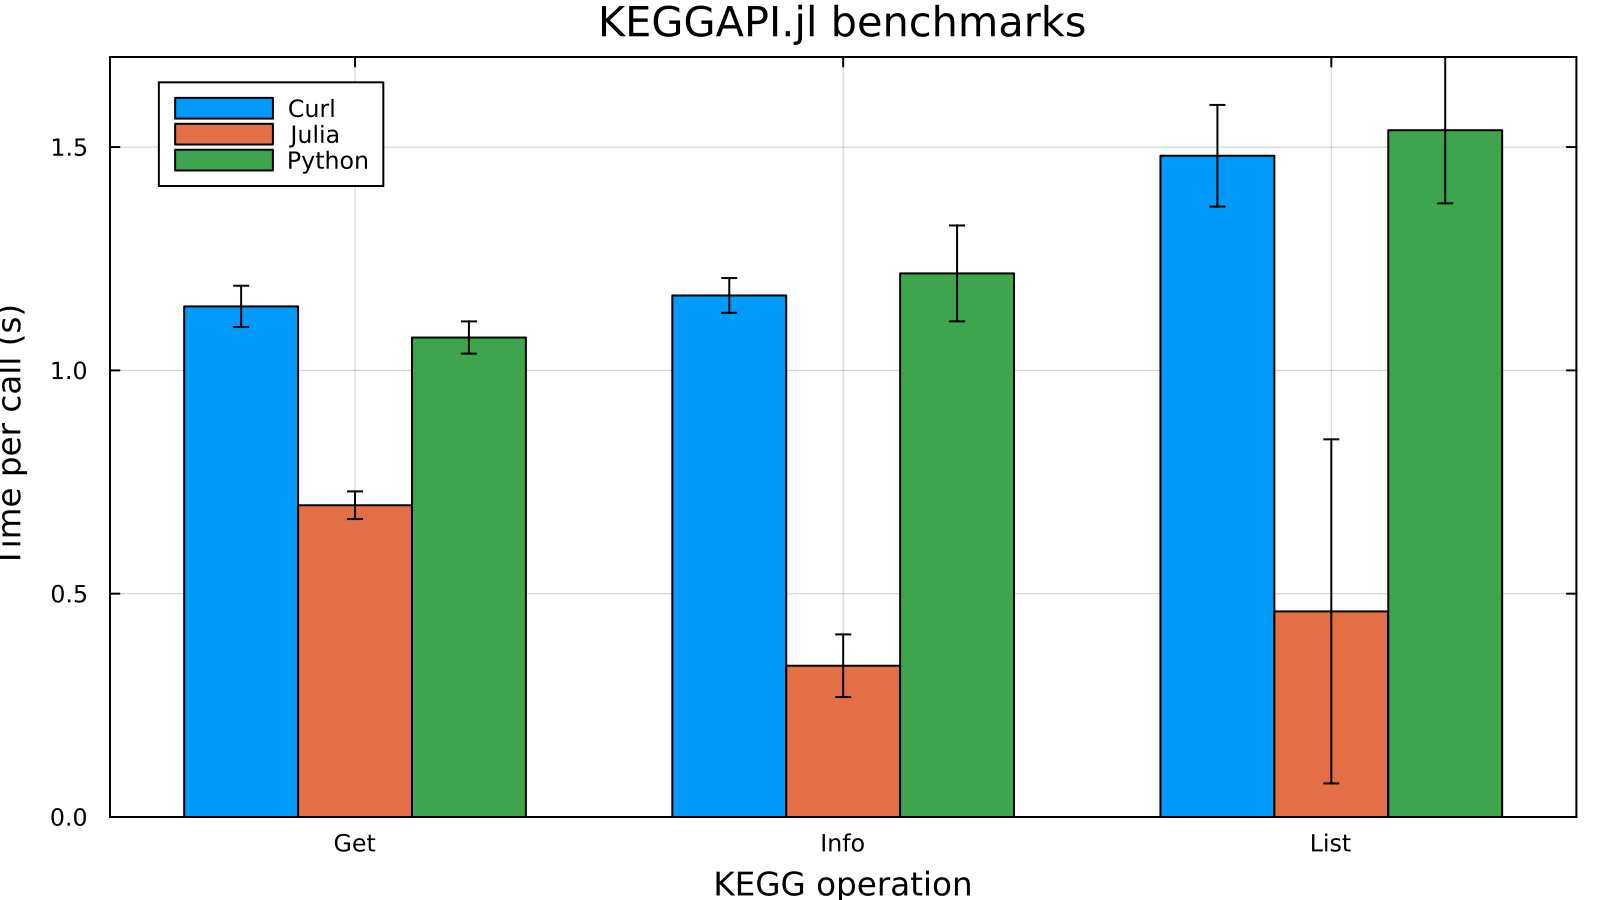
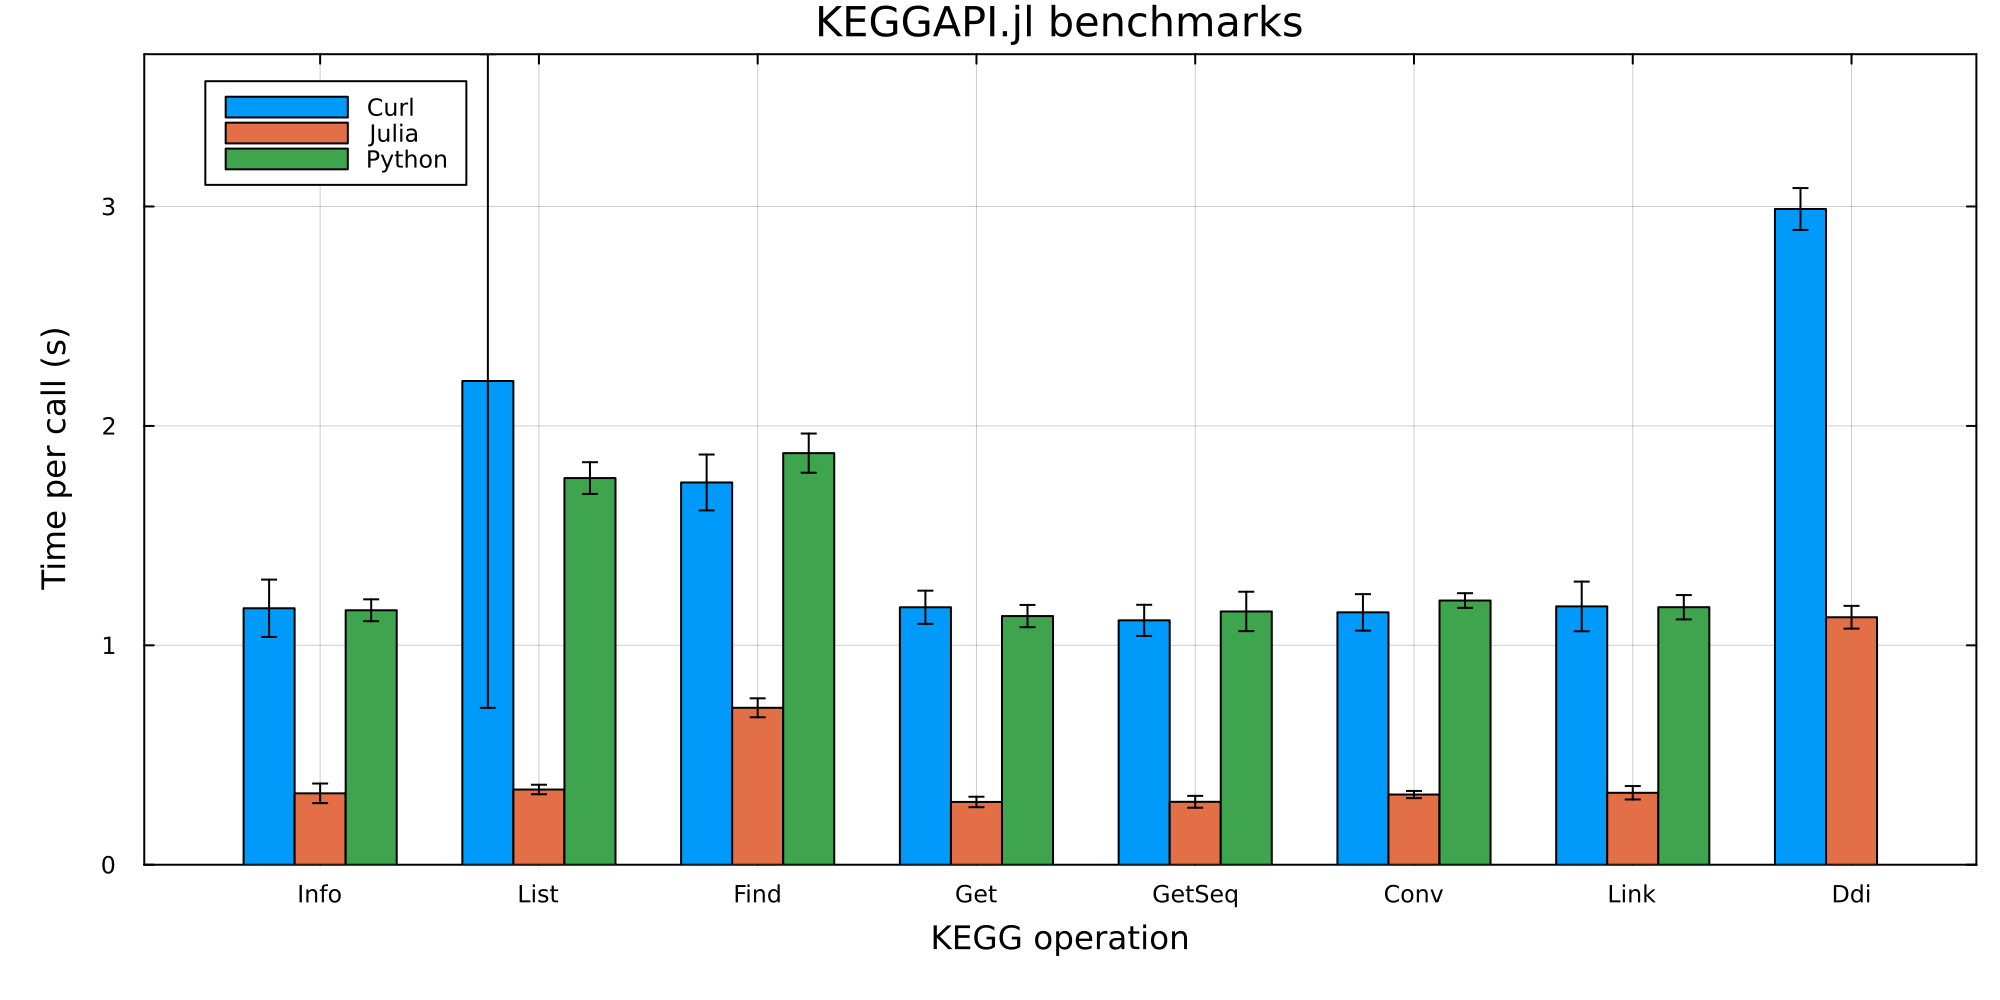
bench: cover all seven KEGG operations
Expand the benchmark from three cases to eight, so every wrapped KEGG
operation is measured: info, list, find, get, get/aaseq, conv, link and
ddi. Runners now share a common (label, thunk) case table, keeping the
four interfaces in sync.

Notes on coverage:
- ddi has no KEGGREST or Bio.KEGG.REST wrapper, so those interfaces
  report no sample and the plot simply omits their bar.
- The conv case uses ncbi-geneid rather than ncbi-proteinid because
  Bio.KEGG.REST only accepts the legacy outside-db names.

Also fix a measurement error: kegg_get sleeps internally to respect the
rate limit, which was being counted as work and inflated the Julia Get
timing by ~0.34 s. The Julia runner now passes timeout = 0.0 (the runner
already spaces its own calls) and silences the resulting warning.

Plot orders operations canonically instead of alphabetically and no
longer clips its axis labels.

diff --git a/benchmarking/runners/bench_python.py b/benchmarking/runners/bench_python.py
@@ -10,6 +10,18 @@ import Bio.KEGG.REST as BK
 NREPS = int(sys.argv[1]) if len(sys.argv) > 1 else 5
 PAUSE = float(sys.argv[2]) if len(sys.argv) > 2 else 0.4
 
+# (label, thunk) pairs -- keep in sync with the other runners. Bio.KEGG.REST has
+# no ddi wrapper, so that case is absent here and reported as unsupported.
+CASES = [
+    ("Info", lambda: BK.kegg_info("kegg")),
+    ("List", lambda: BK.kegg_list("pathway")),
+    ("Find", lambda: BK.kegg_find("compound", "glucose")),
+    ("Get", lambda: BK.kegg_get("hsa:10458")),
+    ("GetSeq", lambda: BK.kegg_get("hsa:10458", "aaseq")),
+    ("Conv", lambda: BK.kegg_conv("ncbi-geneid", "eco:b0002")),
+    ("Link", lambda: BK.kegg_link("pathway", "hsa:10458")),
+]
+
 
 def timeit(fn):
     t0 = time.perf_counter()
@@ -18,13 +30,11 @@ def timeit(fn):
 
 
 # Warm up (connection setup, imports) before the measured replicates.
-BK.kegg_info("kegg").read()
-time.sleep(PAUSE)
+for _, thunk in CASES:
+    thunk().read()
+    time.sleep(PAUSE)
 
 for _ in range(NREPS):
-    print("Info,Python,{}".format(timeit(lambda: BK.kegg_info("kegg"))))
-    time.sleep(PAUSE)
-    print("List,Python,{}".format(timeit(lambda: BK.kegg_list("pathway"))))
-    time.sleep(PAUSE)
-    print("Get,Python,{}".format(timeit(lambda: BK.kegg_get("hsa:10458"))))
-    time.sleep(PAUSE)
+    for label, thunk in CASES:
+        print("{},Python,{}".format(label, timeit(thunk)))
+        time.sleep(PAUSE)

diff --git a/benchmarking/README.md b/benchmarking/README.md
@@ -1,13 +1,27 @@
 # Benchmarking
 
 Compares `KEGGAPI.jl` against the other common KEGG REST clients — `KEGGREST`
-(R), `Bio.KEGG.REST` (Python) and raw `curl` — on three operations:
+(R), `Bio.KEGG.REST` (Python) and raw `curl` — across the KEGG operations:
 
-| Operation | Query          |
-|:----------|:---------------|
-| `Info`    | `info/kegg`    |
-| `List`    | `list/pathway` |
-| `Get`     | `get/hsa:10458`|
+| Operation | Query                          | Covered by            |
+|:----------|:-------------------------------|:----------------------|
+| `Info`    | `info/kegg`                    | all                   |
+| `List`    | `list/pathway`                 | all                   |
+| `Find`    | `find/compound/glucose`        | all                   |
+| `Get`     | `get/hsa:10458`                | all                   |
+| `GetSeq`  | `get/hsa:10458/aaseq`          | all                   |
+| `Conv`    | `conv/ncbi-geneid/eco:b0002`   | all                   |
+| `Link`    | `link/pathway/hsa:10458`       | all                   |
+| `Ddi`     | `ddi/D00564`                   | KEGGAPI.jl, curl only |
+
+`ddi` has no wrapper in KEGGREST or Bio.KEGG.REST, so those interfaces simply
+have no bar for it in the figure. The `conv` case uses `ncbi-geneid` rather than
+`ncbi-proteinid` because Bio.KEGG.REST only recognises the legacy outside-database
+names (`ncbi-gi | ncbi-geneid | uniprot`) and rejects the newer ones.
+
+`KEGGAPI.jl`'s chunked `kegg_get` sleeps internally to respect KEGG's rate limit;
+the Julia runner passes `timeout = 0.0` so that deliberate delay is not counted
+as work, since the runner already spaces its own calls.
 
 Each interface runs every operation inside a **single** process, so what is
 measured is per-call time rather than interpreter startup. A warm-up call is
